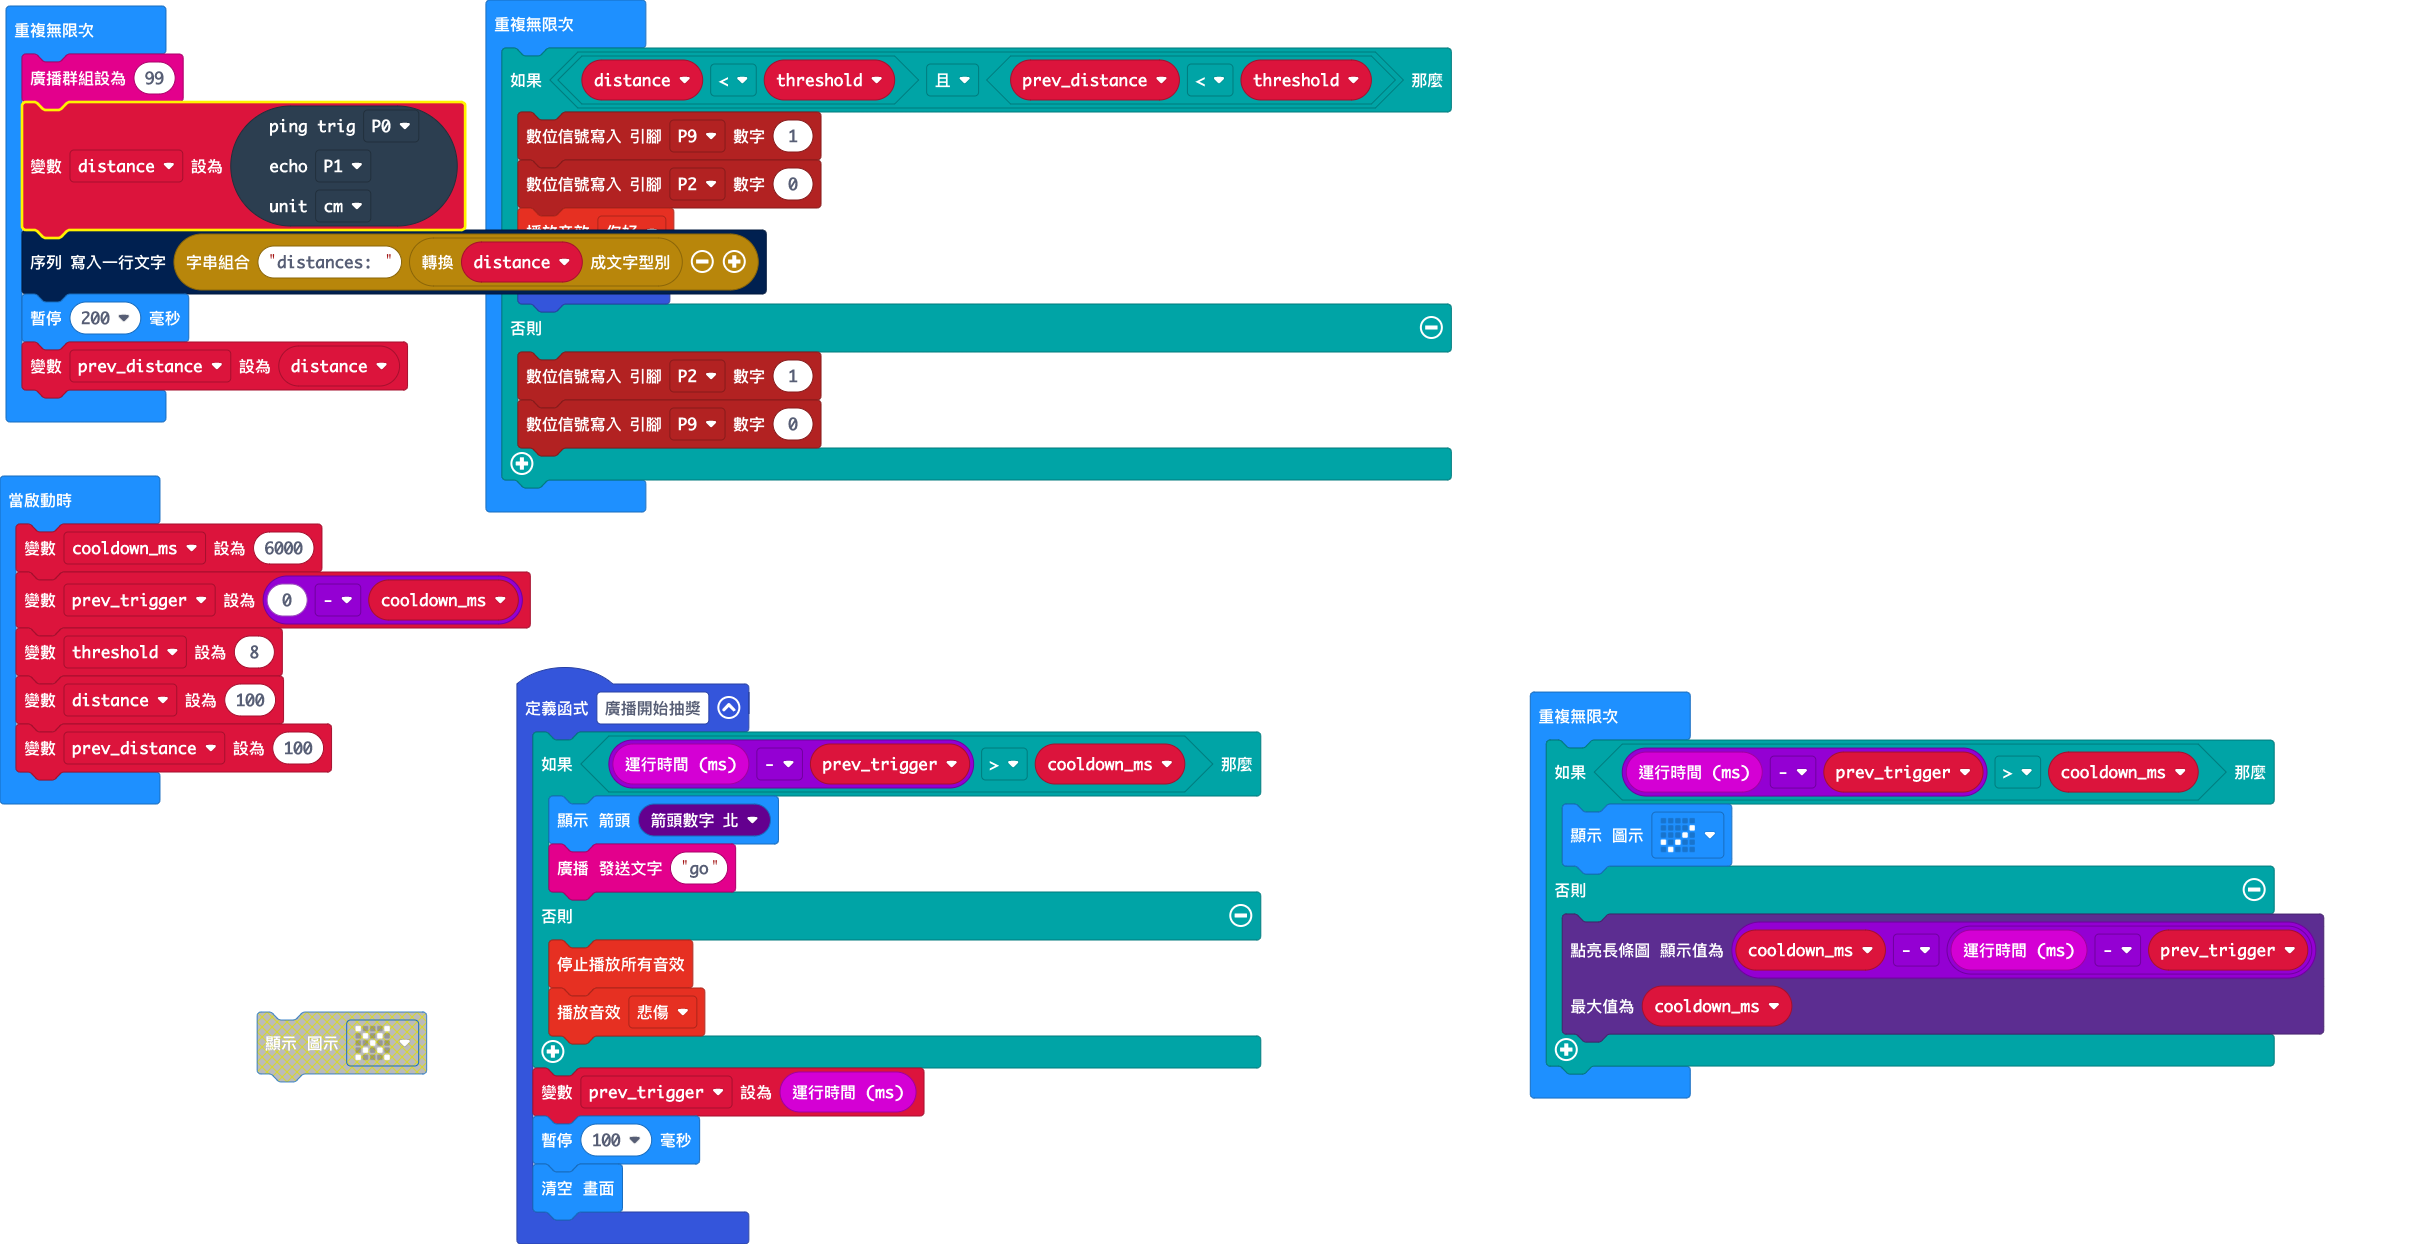
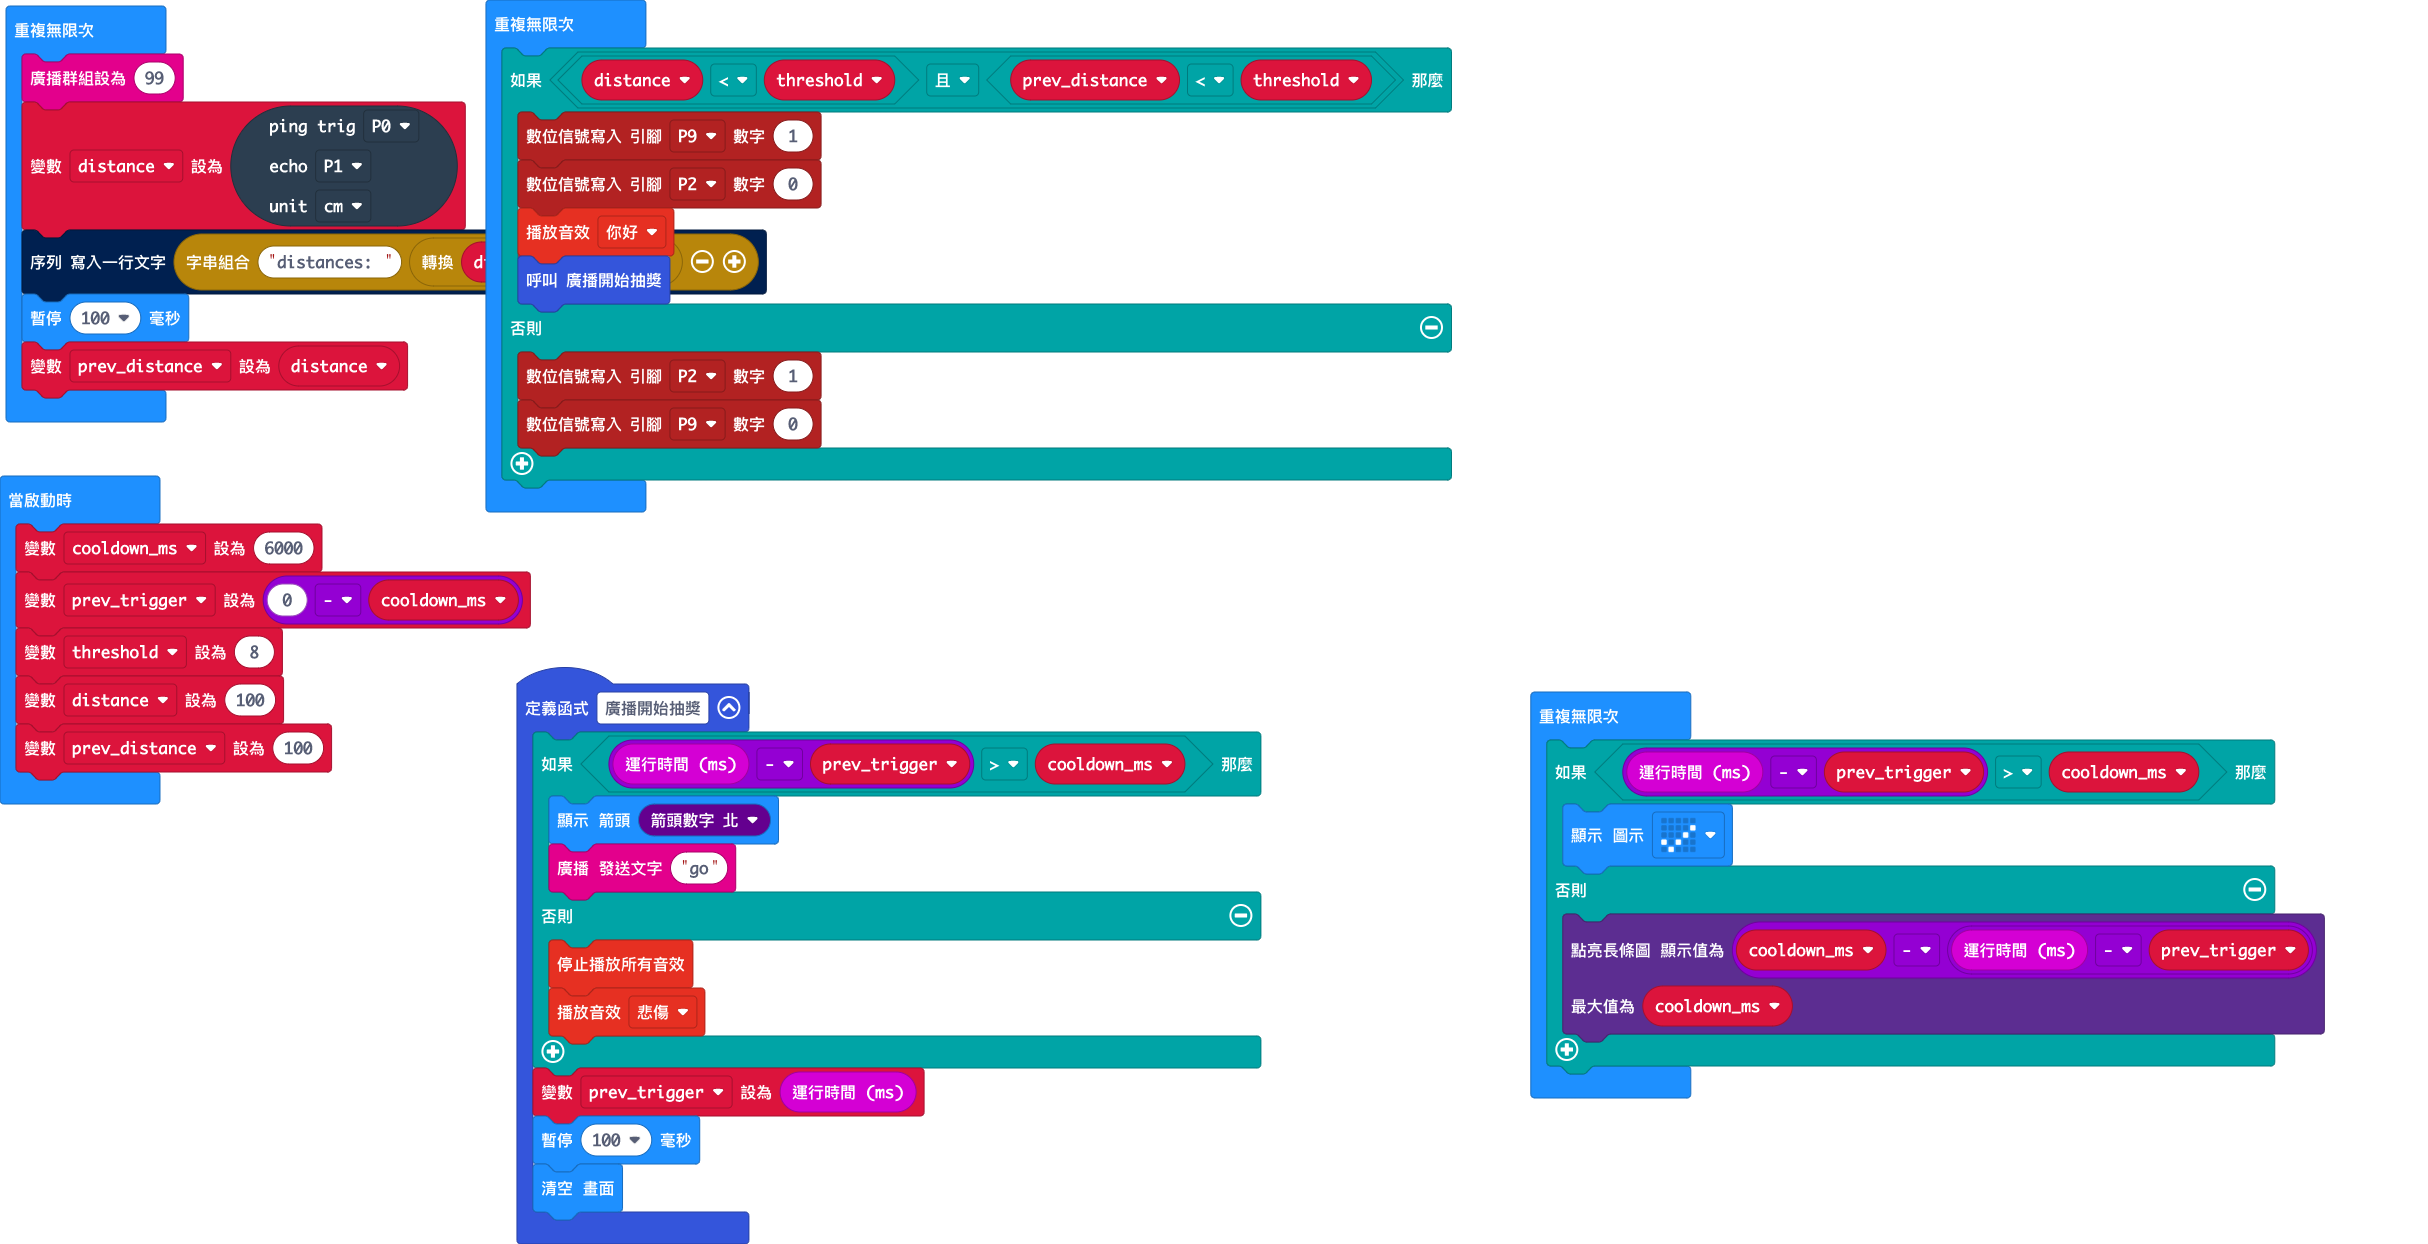
Clean up unused block

diff --git a/main.ts b/main.ts
@@ -25,7 +25,7 @@ basic.forever(function () {
     PingUnit.Centimeters
     )
     serial.writeLine("distances: " + convertToText(distance))
-    basic.pause(200)
+    basic.pause(100)
     prev_distance = distance
 })
 basic.forever(function () {
